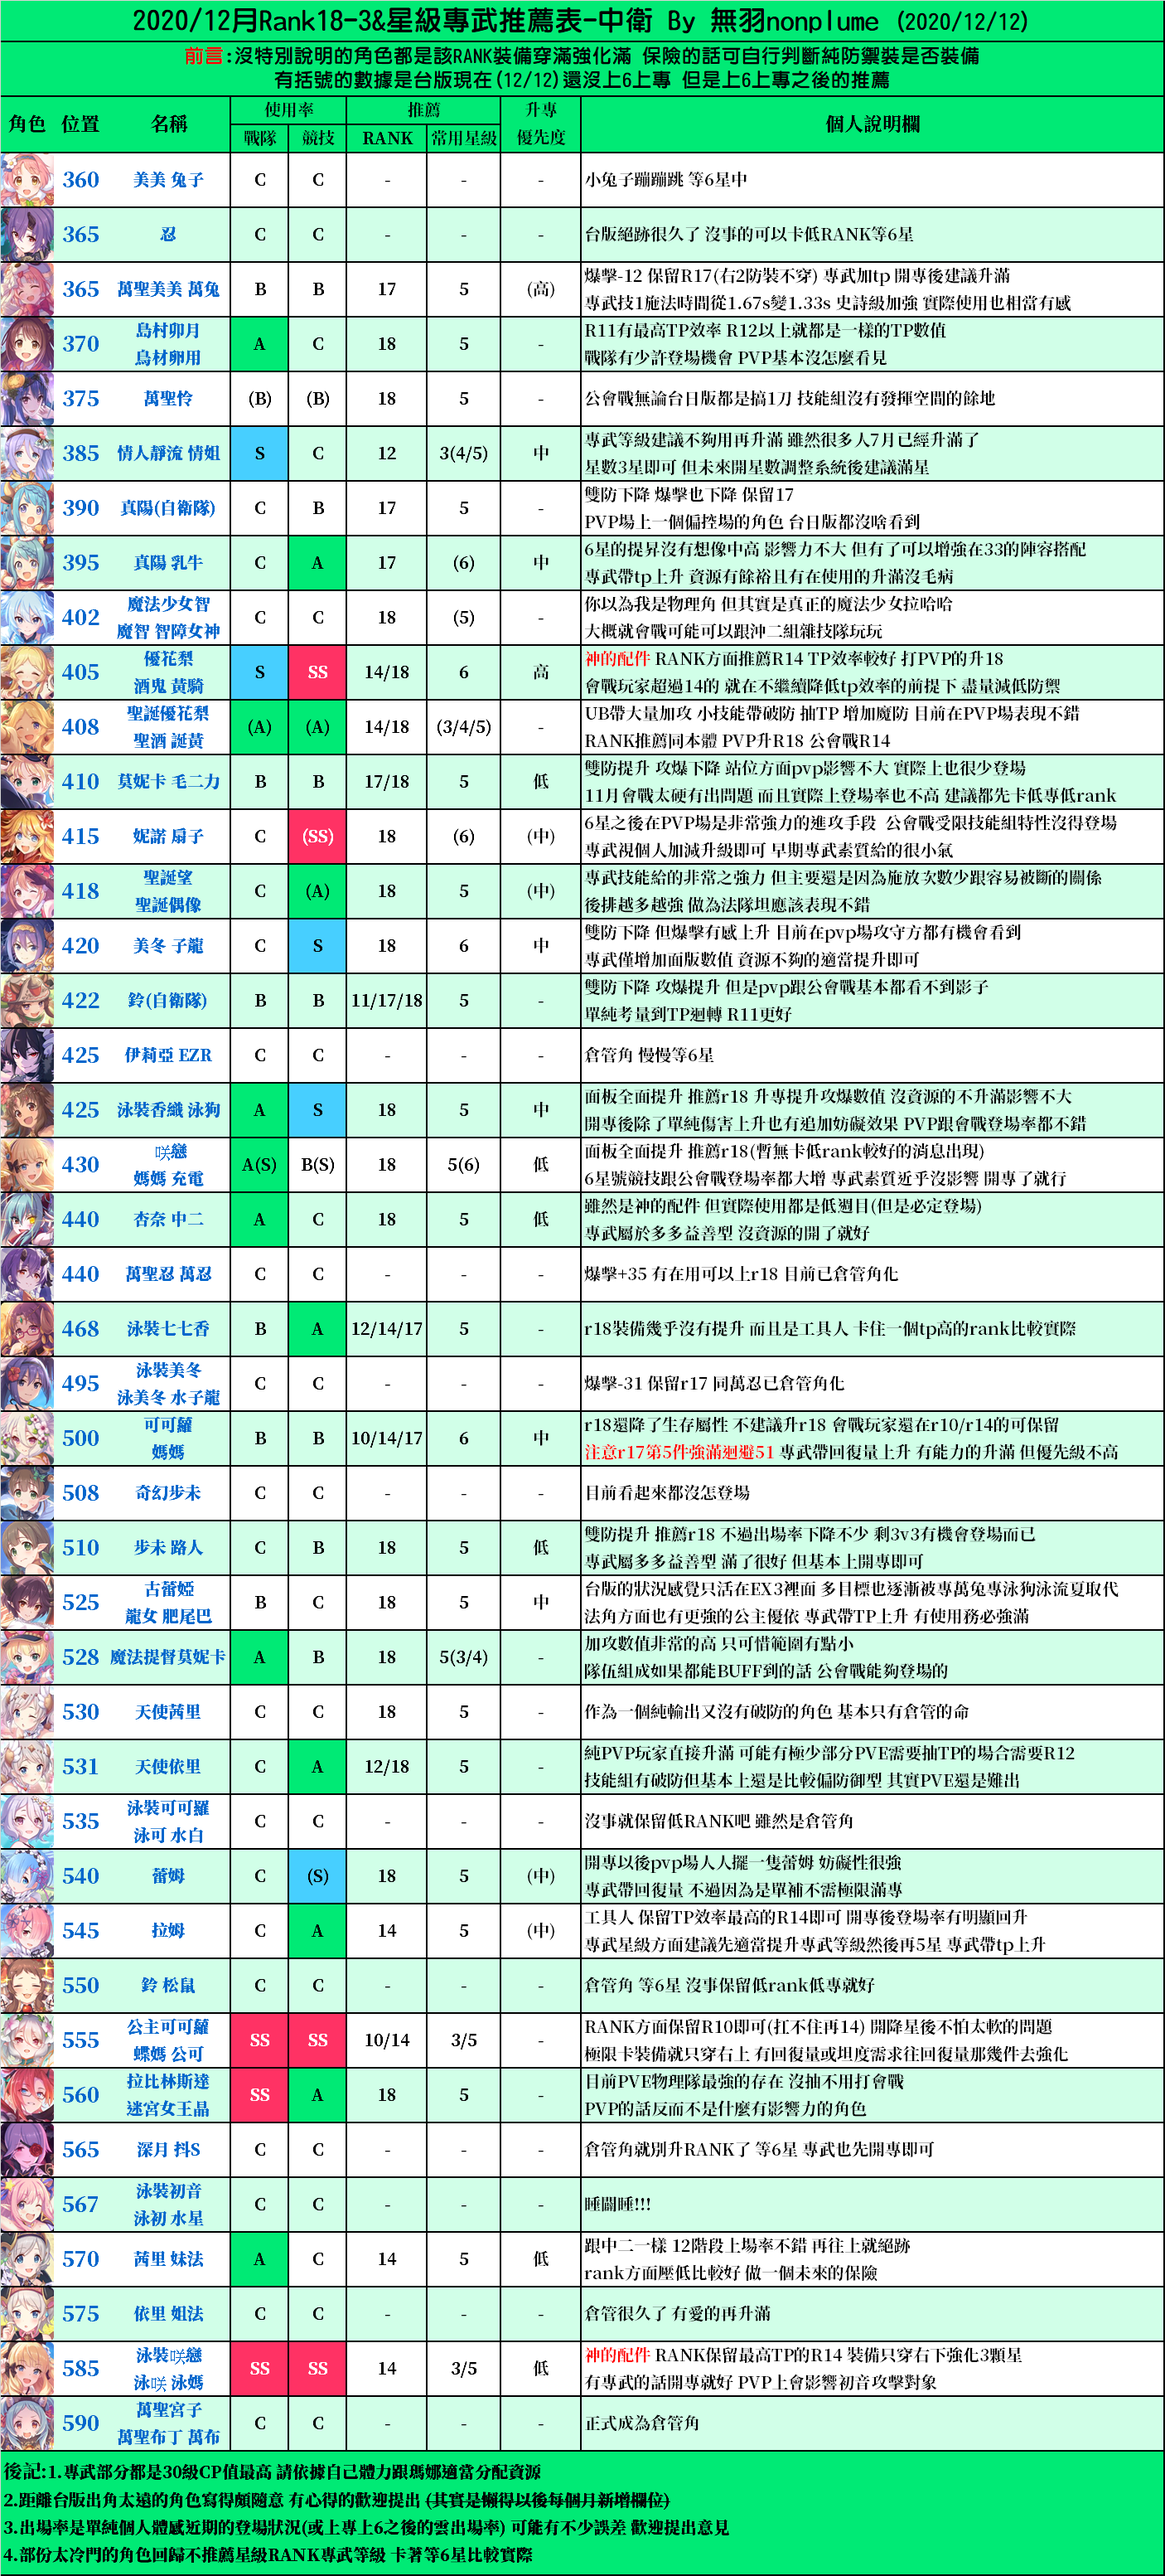
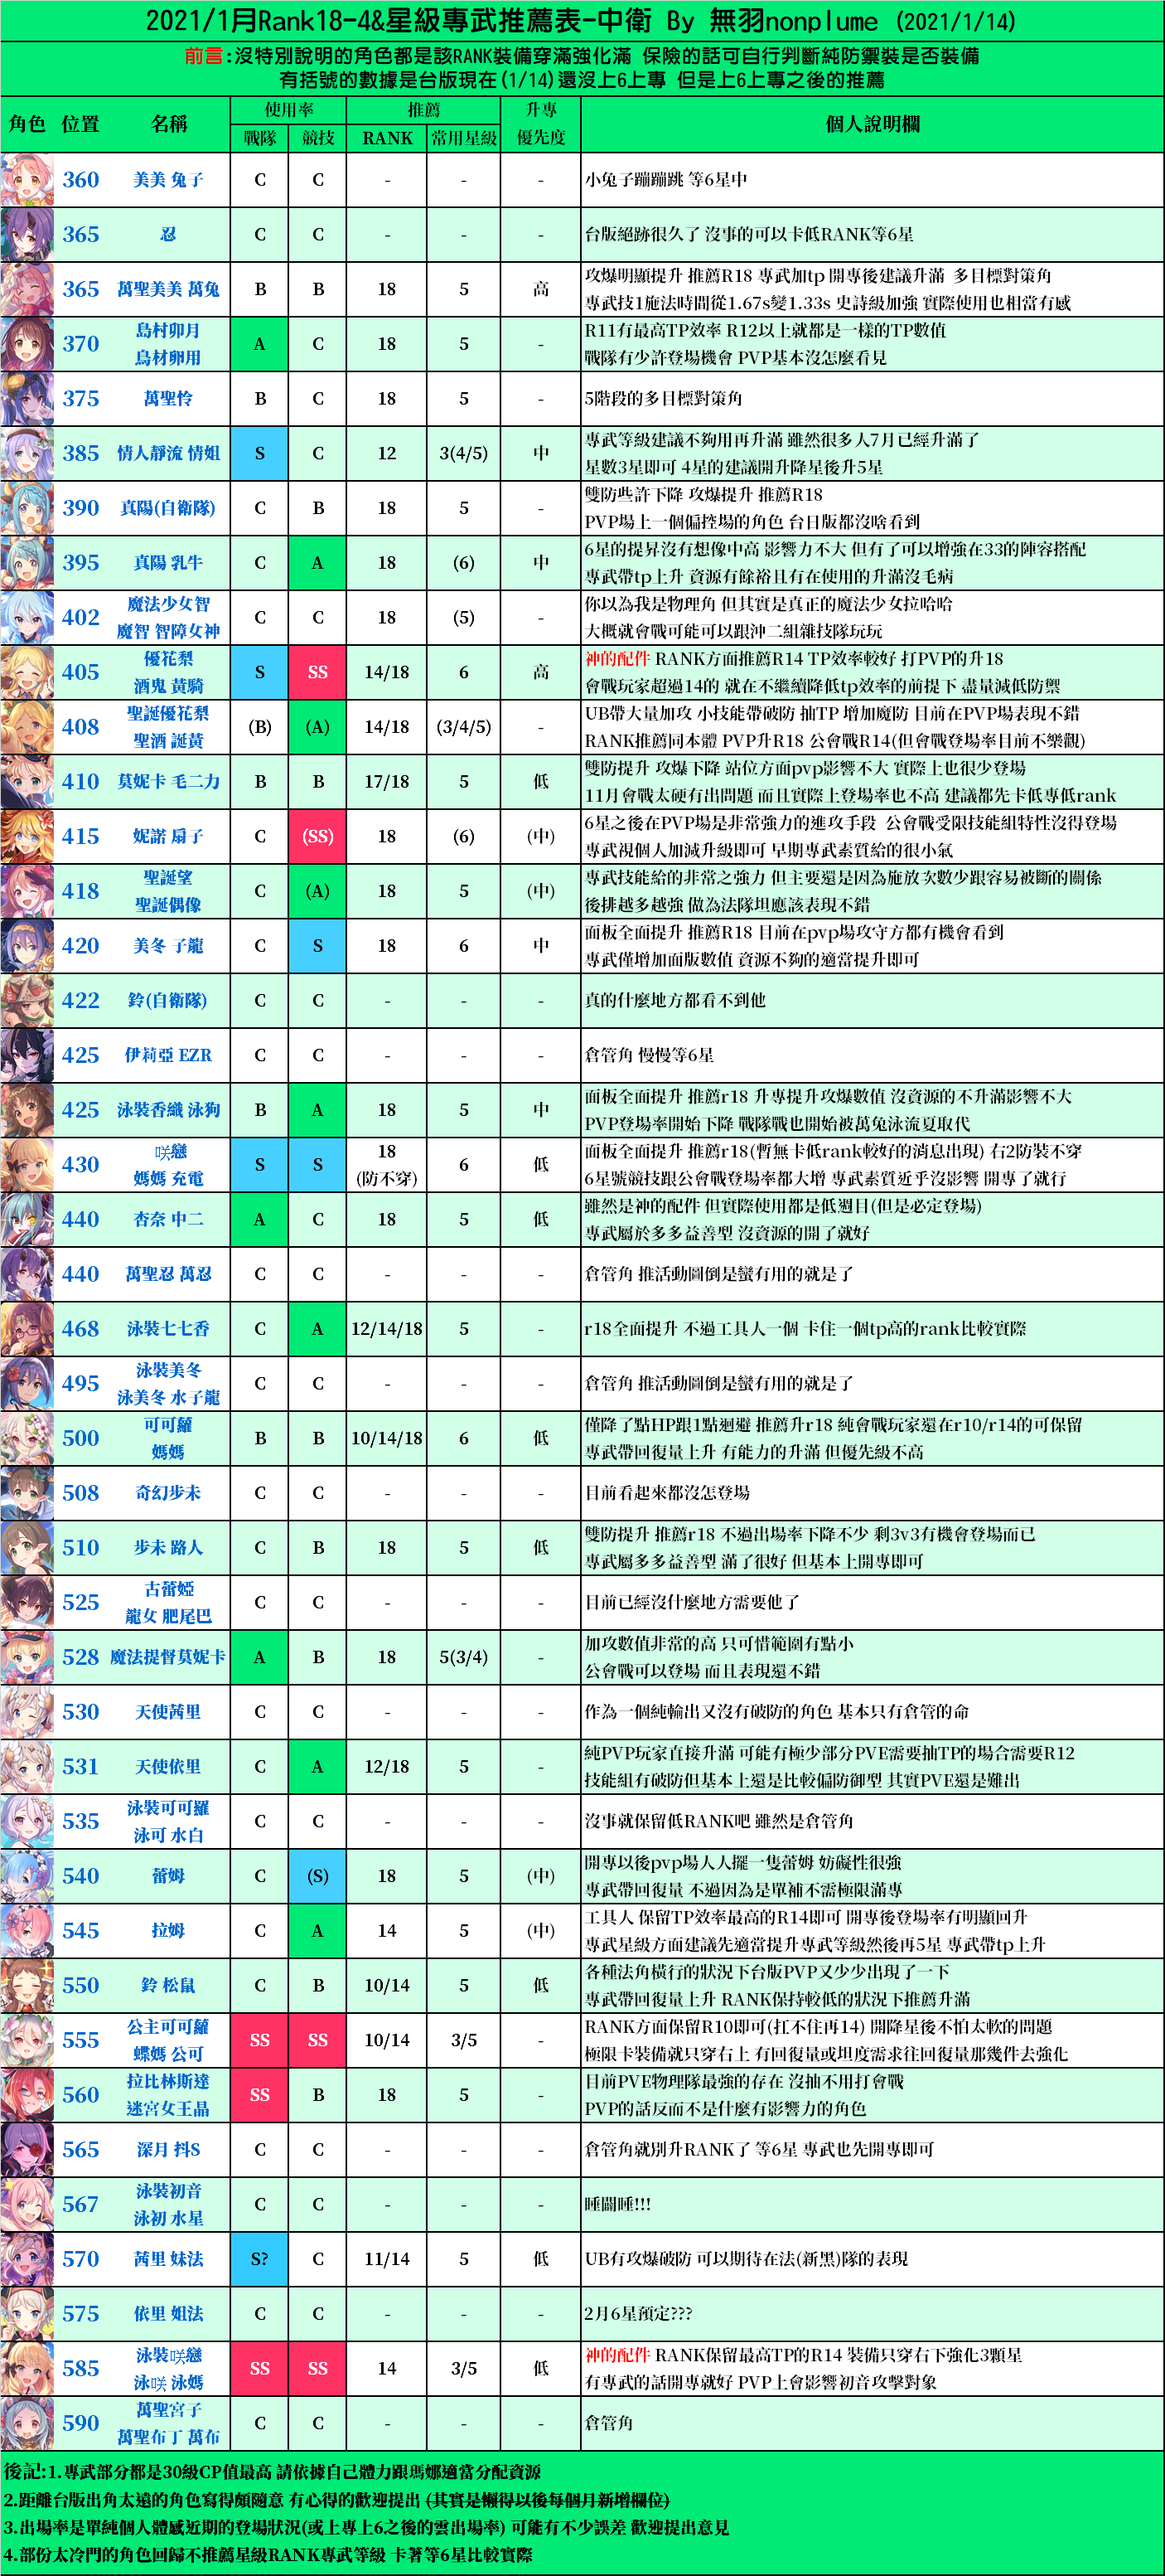
update 18-4

diff --git a/Chloe/group_chats/chats.py b/Chloe/group_chats/chats.py
@@ -42,19 +42,19 @@ async def decrease(session: NoticeSession):
 @on_command('前卫rank', only_to_me=False)
 async def _(session: CommandSession):
     path = os.path.join(os.path.dirname(__file__), "RF.png")
-    await session.send(f'無羽R18-3[CQ:image,file=file:///{path}]')
+    await session.send(f'無羽R18-4[CQ:image,file=file:///{path}]')
 
 
 @on_command('中卫rank', only_to_me=False)
 async def _(session: CommandSession):
     path = os.path.join(os.path.dirname(__file__), "RM.png")
-    await session.send(f'無羽R18-3[CQ:image,file=file:///{path}]')
+    await session.send(f'無羽R18-4[CQ:image,file=file:///{path}]')
 
 
 @on_command('后卫rank', only_to_me=False)
 async def _(session: CommandSession):
     path = os.path.join(os.path.dirname(__file__), "RB.png")
-    await session.send(f'無羽R18-3[CQ:image,file=file:///{path}]')
+    await session.send(f'無羽R18-4[CQ:image,file=file:///{path}]')
 
 
 @on_command('rank', only_to_me=False)
